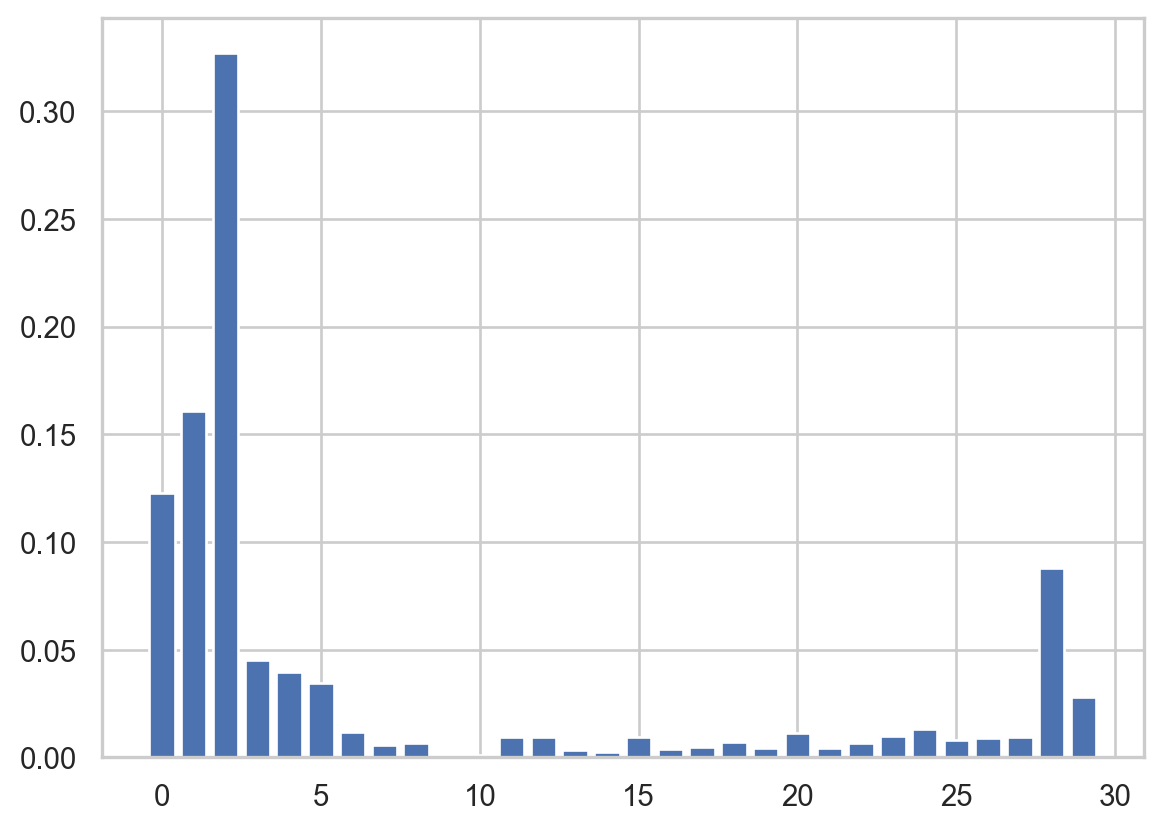
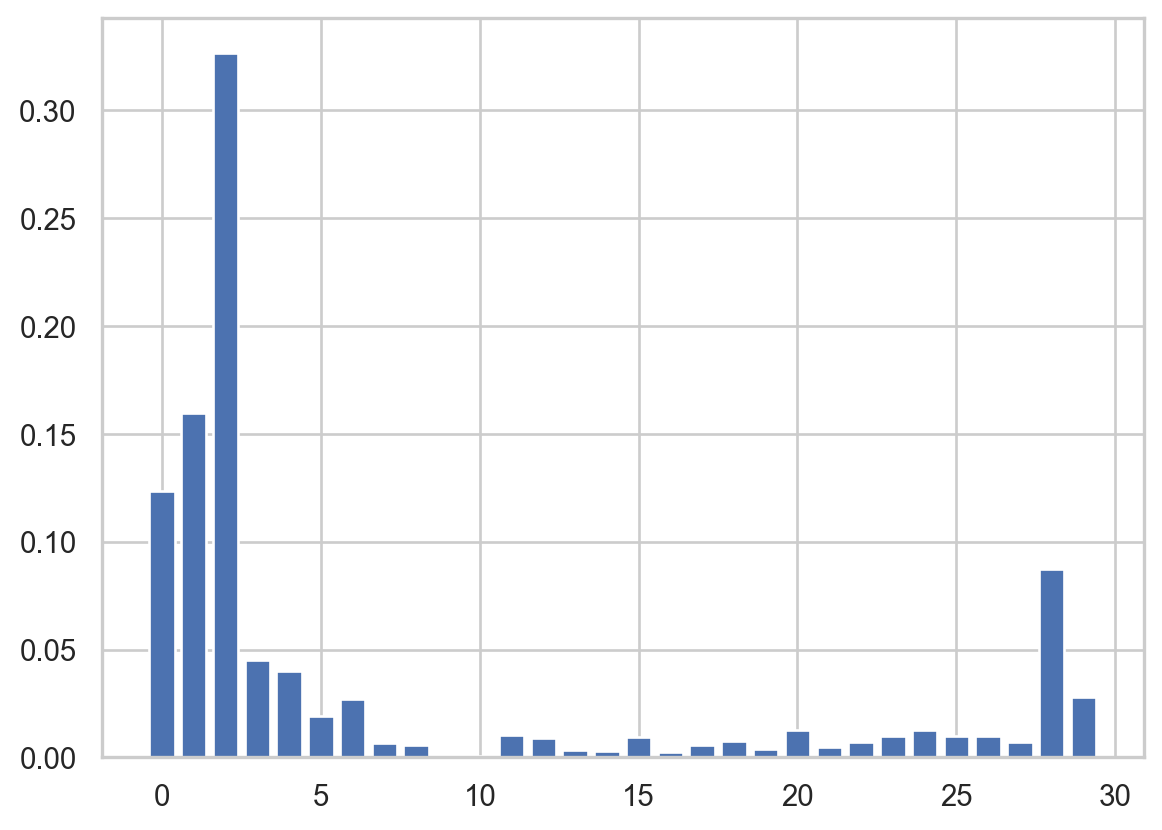
final summary

diff --git a/DATASET and QMD FINAL/Summary.html b/DATASET and QMD FINAL/Summary.html
@@ -175,8 +175,10 @@ ul.task-list li input[type="checkbox"] {
 <h2 class="anchored" data-anchor-id="basic-information-about-the-data">Basic Information about the data</h2>
 <div class="cell" data-execution_count="4">
 <div class="cell-output cell-output-stdout">
-<pre><code>Shape of dataset is : (45211, 23)
-&lt;class 'pandas.core.frame.DataFrame'&gt;
+<pre><code>Shape of dataset is : (45211, 23)</code></pre>
+</div>
+<div class="cell-output cell-output-stdout">
+<pre><code>&lt;class 'pandas.core.frame.DataFrame'&gt;
 RangeIndex: 45211 entries, 0 to 45210
 Data columns (total 23 columns):
  #   Column          Non-Null Count  Dtype  
@@ -579,7 +581,7 @@ accuracy                           0.88     33968</code></pre>
 </div>
 </div>
 <p>Average weighted precision achieved across all threshold is 0.45.</p>
-<p>For ROC - AUC curve refer here. For precision recall curve refer here.</p>
+<p>For ROC - AUC curve refer (<a href="#fig-roc-curve">Figure&nbsp;1</a>). For precision recall curve refer(<a href="#fig-pr-curve">Figure&nbsp;2</a>).</p>
 </section>
 </section>
 <section id="decision-tree" class="level1">
@@ -591,17 +593,18 @@ accuracy                           0.88     33968</code></pre>
 <pre><code>Feature 0 variable age score 0.12
 Feature 1 variable balance score 0.16
 Feature 2 variable duration score 0.33
-Feature 3 variable campaign score 0.05
+Feature 3 variable campaign score 0.04
 Feature 4 variable previous score 0.04
-Feature 5 variable housing_no score 0.03
-Feature 6 variable housing_yes score 0.01
+Feature 5 variable housing_no score 0.02
+Feature 6 variable housing_yes score 0.03
+Feature 11 variable job_admin. score 0.01
 Feature 20 variable job_technician score 0.01
 Feature 23 variable education_secondary score 0.01
 Feature 24 variable education_tertiary score 0.01
 Feature 28 variable sin_month score 0.09
 Feature 29 variable cos_month score 0.03
 Important features from decision treee are : 
-['age', 'balance', 'duration', 'campaign', 'previous', 'housing_no', 'housing_yes', 'job_technician', 'education_secondary', 'education_tertiary', 'sin_month', 'cos_month']</code></pre>
+['age', 'balance', 'duration', 'campaign', 'previous', 'housing_no', 'housing_yes', 'job_admin.', 'job_technician', 'education_secondary', 'education_tertiary', 'sin_month', 'cos_month']</code></pre>
 </div>
 <div class="cell-output cell-output-display">
 <p><img src="Summary_files/figure-html/cell-39-output-2.png" width="581" height="415"></p>
@@ -630,27 +633,27 @@ Important features from decision treee are :
 </div>
 <div class="cell-output cell-output-stdout">
 <pre><code>Best parameters from Grid Search CV : 
-{'criterion': 'entropy', 'max_depth': 6, 'max_features': 0.6, 'splitter': 'best'}</code></pre>
+{'criterion': 'entropy', 'max_depth': 8, 'max_features': 0.8, 'splitter': 'best'}</code></pre>
 </div>
 </div>
 <div class="cell" data-execution_count="40">
 <div class="cell-output cell-output-stdout">
-<pre><code>0.9092381064531324
-[[29083   945]
- [ 2138  1802]]
+<pre><code>0.9112399905793688
+[[29109   919]
+ [ 2096  1844]]
               precision    recall  f1-score   support
 
            0       0.93      0.97      0.95     30028
-           1       0.66      0.46      0.54      3940
+           1       0.67      0.47      0.55      3940
 
     accuracy                           0.91     33968
-   macro avg       0.79      0.71      0.74     33968
+   macro avg       0.80      0.72      0.75     33968
 weighted avg       0.90      0.91      0.90     33968
 </code></pre>
 </div>
 </div>
 <p>Here we are able to achieve better accuracy,precision and recall rate.</p>
-<p>AUC Curve : Precision Recall Curve :</p>
+<p>AUC Curve : <a href="#fig-roc-curve">Figure&nbsp;1</a> Precision Recall Curve : <a href="#fig-pr-curve">Figure&nbsp;2</a></p>
 </section>
 </section>
 <section id="random-forest" class="level1">
@@ -660,7 +663,7 @@ weighted avg       0.90      0.91      0.90     33968
 <div class="cell" data-execution_count="41">
 <div class="cell-output cell-output-stdout">
 <pre><code>Important features from random forest :
-['age', 'balance', 'duration', 'campaign', 'previous', 'housing_no', 'housing_yes', 'job_admin.', 'job_management', 'job_technician', 'education_secondary', 'education_tertiary', 'marital_married', 'marital_single', 'sin_month', 'cos_month']</code></pre>
+['age', 'balance', 'duration', 'campaign', 'previous', 'housing_no', 'housing_yes', 'job_admin.', 'job_management', 'job_technician', 'education_secondary', 'education_tertiary', 'marital_married', 'sin_month', 'cos_month']</code></pre>
 </div>
 <div class="cell-output cell-output-display">
 <p><img src="Summary_files/figure-html/cell-42-output-2.png" width="581" height="415"></p>
@@ -674,7 +677,7 @@ weighted avg       0.90      0.91      0.90     33968
 <pre><code>Fitting 3 folds for each of 32 candidates, totalling 96 fits</code></pre>
 </div>
 <div class="cell-output cell-output-display" data-execution_count="41">
-<pre><code>{'bootstrap': True, 'max_depth': 100, 'max_features': 3, 'n_estimators': 200}</code></pre>
+<pre><code>{'bootstrap': True, 'max_depth': 110, 'max_features': 3, 'n_estimators': 300}</code></pre>
 </div>
 </div>
 <div class="cell" data-execution_count="43">
@@ -695,10 +698,12 @@ weighted avg       1.00      1.00      1.00     33968
 </div>
 </div>
 <p>We are getting best performance from Random Forest but we are not sure why we are getting such idealistic results so we would also apply cross validation to test our results</p>
+<p>AUC Curve : <a href="#fig-roc-curve">Figure&nbsp;1</a> Precision Recall Curve : <a href="#fig-pr-curve">Figure&nbsp;2</a></p>
 </section>
 </section>
 <section id="linear-svc" class="level1">
 <h1>Linear SVC</h1>
+<p>Finding a linear hyperplane that tries to separate two classes</p>
 <div class="cell" data-execution_count="44">
 <div class="cell-output cell-output-stdout">
 <pre><code>0.8908384361752237
@@ -718,6 +723,7 @@ weighted avg       0.87      0.89      0.86     33968
 </section>
 <section id="svc" class="level1">
 <h1>SVC</h1>
+<p>Finding a complex hyperplane that tries to separate the classes.</p>
 <div class="cell" data-execution_count="45">
 <div class="cell-output cell-output-stdout">
 <pre><code>0.8952837965143665
@@ -764,6 +770,8 @@ weighted avg       0.86      0.88      0.87     33968
 </code></pre>
 </div>
 </div>
+<p>As we can see from the graph for Yes(1/have subscribed) the probabilities are coming both sides which is not correct.</p>
+<p>AUC Curve : <a href="#fig-roc-curve">Figure&nbsp;1</a> Precision Recall Curve : <a href="#fig-pr-curve">Figure&nbsp;2</a></p>
 </section>
 <section id="knn" class="level1">
 <h1>KNN</h1>
@@ -801,12 +809,18 @@ weighted avg       0.92      0.93      0.92     33968
 </code></pre>
 </div>
 </div>
+<p>AUC Curve : <a href="#fig-roc-curve">Figure&nbsp;1</a> Precision Recall Curve : <a href="#fig-pr-curve">Figure&nbsp;2</a></p>
 </section>
 <section id="roc--auc-curve" class="level1">
 <h1>ROC -AUC Curve</h1>
 <div class="cell" data-execution_count="51">
 <div class="cell-output cell-output-display">
-<p><img src="Summary_files/figure-html/cell-52-output-1.png" width="671" height="535"></p>
+<div id="fig-roc-curve" class="quarto-figure quarto-figure-center anchored">
+<figure class="figure">
+<p><img src="Summary_files/figure-html/fig-roc-curve-output-1.png" width="671" height="535" class="figure-img"></p>
+<p></p><figcaption class="figure-caption">Figure&nbsp;1: AUC ROC Curve for all Modeld</figcaption><p></p>
+</figure>
+</div>
 </div>
 </div>
 </section>
@@ -814,7 +828,12 @@ weighted avg       0.92      0.93      0.92     33968
 <h1>Precision Recall Curve</h1>
 <div class="cell" data-execution_count="52">
 <div class="cell-output cell-output-display">
-<p><img src="Summary_files/figure-html/cell-53-output-1.png" width="593" height="435"></p>
+<div id="fig-pr-curve" class="quarto-figure quarto-figure-center anchored">
+<figure class="figure">
+<p><img src="Summary_files/figure-html/fig-pr-curve-output-1.png" width="593" height="435" class="figure-img"></p>
+<p></p><figcaption class="figure-caption">Figure&nbsp;2: Precision Recall Curve for all Modeld</figcaption><p></p>
+</figure>
+</div>
 </div>
 </div>
 <p>As per the ROC Curve and Precision Recall curve, Random Forest Classifier is performing best. Second best is KNN.</p>
